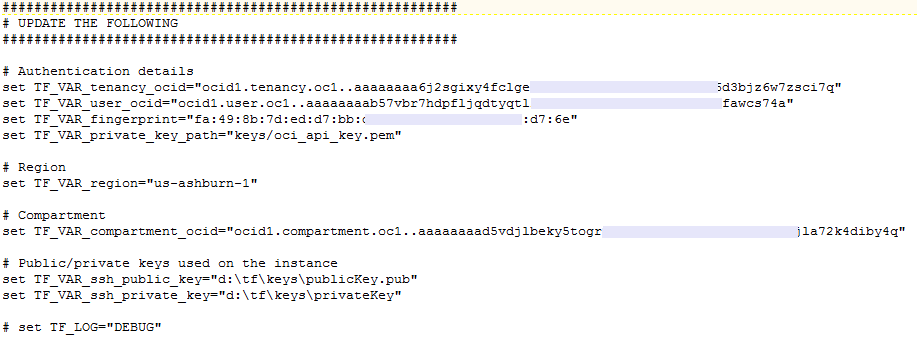
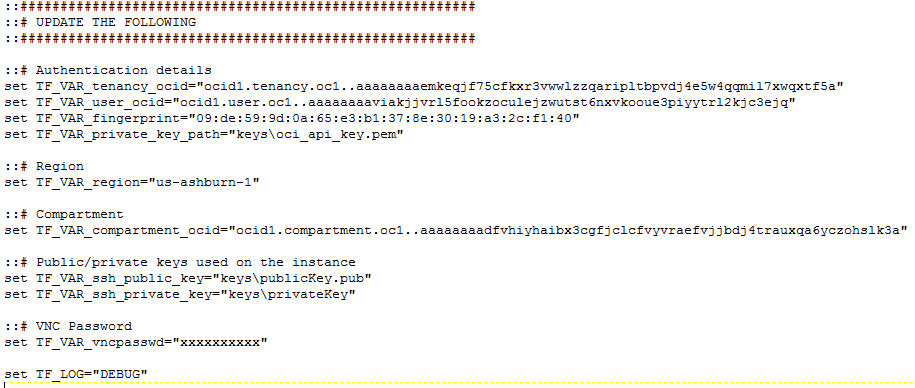
updates

diff --git a/workshops/dbcs-dba/SG-setup-terraform.md b/workshops/dbcs-dba/SG-setup-terraform.md
@@ -2,7 +2,7 @@ Update April 2, 2018
 
 # Setup
 
-This workshop requires several setups steps that are normally done in advance as part of an automated process prior to running the labs.  In cases where a customer wishes to run through the workshop themselves on their own without the support of Global Services Engineering (GSE) they must first walk through the following steps.  Note there are two setup options: The first is manual, and the second (this one) uses Terraform with the Oracle Terraform OCI Provider.  This is the recommended set as it has fewer steps and configures the cloud automatically.  We have left the manual one in place so you can see what the Terraform process will do for you.  This workshop was built on and for version 12.2 of the database, but will also work with 18c with minor changes.  See the 18c_updates document in the drop down menu.  Ensure you make chnages noted in that document before you start the setup.
+This workshop requires several setups steps that are normally done in advance as part of an automated process prior to running the labs.  In cases where a customer wishes to run through the workshop themselves on their own without the support of Global Services Engineering (GSE) they must first walk through the following steps.  Note there are two setup options: The first is manual, and the second (this one) uses Terraform with the Oracle Terraform OCI Provider.  This is the recommended set as it has fewer steps and configures the cloud automatically.  We have left the manual one in place so you can see what the Terraform process will do for you.  This workshop was built on and for version 12.2 of the database, but will also work with 18c with minor changes.  The setup instructions and lab docs have notes at various places on what you need to do to run the workshop using 18c.
 
 ### **STEP 1**: Install Git, Download the Terraform Configuration Files, and Install Terraform and the Oracle Terraform OCI-Provider
 
@@ -96,7 +96,7 @@ openssl rsa -pubout -in d:/tf/keys/oci_api_key.pem -out d:/tf/keys/oci_api_key_p
 
 	![](images/SG-setup-terraform/025.png)
 
--	Update the path to your Terraform keys directory.  In this case we have created a tf directory in D.  You may have put your files in another directory.  Update the paths.
+-	Update your password.  We suggest you use your cloud password.
 
 	![](images/SG-setup-terraform/026.png)
 
@@ -123,13 +123,13 @@ openssl rsa -pubout -in d:/tf/keys/oci_api_key.pem -out d:/tf/keys/oci_api_key_p
 
 	![](images/SG-setup-terraform/031.png)
 
--	Select Tenancy and copy the tenancy_ocid.  Update the env-vars.bat file with this value (paste carefully between the double quotes).  
+-	Select Tenancy and copy the tenancy_ocid.  Update the env-vars.bat file with this value (paste carefully between the double quotes).
 
 	![](images/SG-setup-terraform/032.png)
 
 	![](images/SG-setup-terraform/033.png)
 
--	Next go to Identity - Users.  Copy the user_ocid and paste into the env-vars.bat file.
+-	Next go to Identity - Users.  Copy the user_ocid and paste into the env-vars.bat file.  Note if you are using a trial account the api_user will not exist.  In that case use the user_ocid of the trial account user.
 
 	![](images/SG-setup-terraform/034.png)
 
